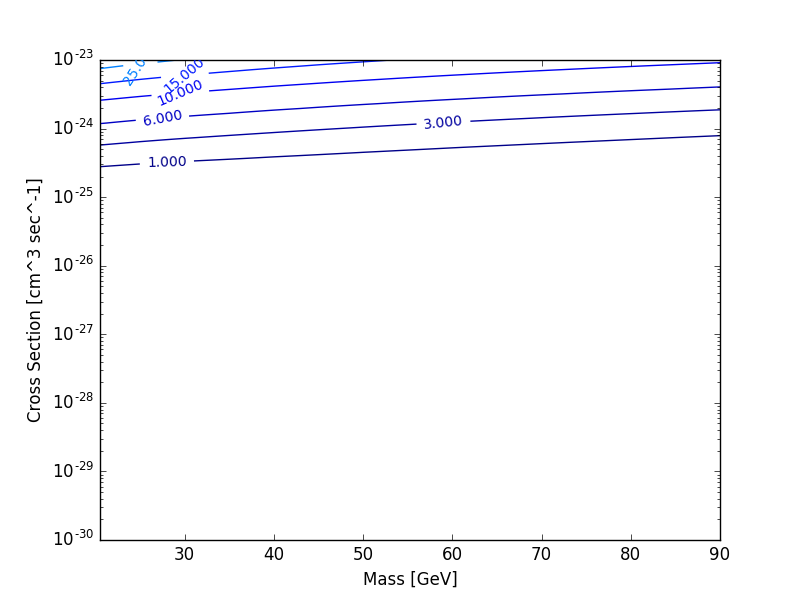
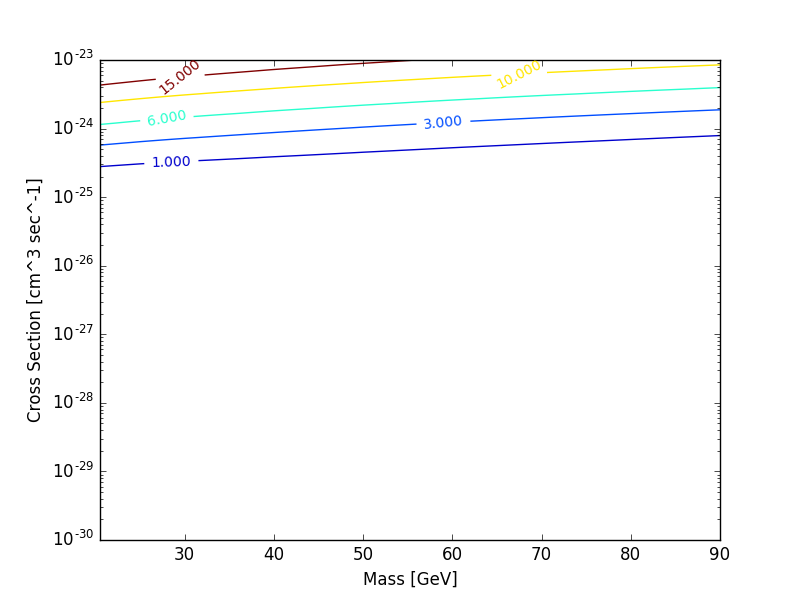
changed plot stuff

Changed region(s): [[0.125, 0.09, 0.9062, 0.3], [0.125, 0.27, 0.1562, 0.3]]

diff --git a/GCE_jla.py b/GCE_jla.py
@@ -1,6 +1,7 @@
 import numpy as np
 import scipy.optimize as scop
 import matplotlib.pyplot as plt
+import matplotlib.cm as cm
 from scipy import integrate
 
 import GCE_calcs
@@ -72,8 +73,8 @@ J_prior = np.tile(J_prior[np.newaxis,:,np.newaxis],(n_sigma,1,n_mass))
 GCE_like_3d = np.exp(log_like_GCE_3d)*J_prior
 
 max_index_GCE = np.unravel_index(GCE_like_3d.argmax(),GCE_like_3d.shape)
-plt.errorbar(10**bin_center,k[0,0,0,:]-background,yerr = np.sqrt(k[0,0,0,:]),label = 'Observed Residual')
-plt.plot(10**bin_center,mu[max_index_GCE[0],max_index_GCE[1],max_index_GCE[2],:]'+filen_name+',label = 'Expected Residual')
+plt.errorbar(10**bin_center, k[0,0,0,:]-background, yerr=np.sqrt(k[0,0,0,:]), color='c', label='Observed Residual')
+plt.plot(10**bin_center, mu[max_index_GCE[0],max_index_GCE[1],max_index_GCE[2],:], 'm', label='Expected Residual')
 plt.xscale('log')
 plt.yscale('log')
 plt.xlabel('Energy [GeV]')
@@ -84,12 +85,21 @@ plt.clf()
 
 GCE_like_2d = np.trapz(GCE_like_3d,x=J,axis=1)
 
-levels = [0,1,3,6,10,15,25,36,49,100]
-CS = plt.contour(mass_table,sigma,-np.log(GCE_like_2d) + np.log(GCE_like_2d.max()),levels)
-plt.clabel(CS, inline=1, fontsize=10)
+cmap = cm.cool
+levels = [0,1,3,6,10,15]
+manual_locations = [(41, 3e-26), (40, 1e-25), (39, 3e-25), (37, 1e-24), (34, 3e-24)]
+CS = plt.contour(mass_table,sigma,-np.log(GCE_like_2d) + np.log(GCE_like_2d.max()), levels, cmap=cm.get_cmap(cmap, len(levels) - 1))
+#plt.clabel(CS, inline=0, fontsize=10, fmt='%1.f', manual=manual_locations)
+plt.text(41, 3e-26, r'1$\sigma$', color='k', fontsize=10)
+plt.text(40, 1e-25, r'2$\sigma$', color='k', fontsize=10)
+plt.text(39, 3e-25, r'3$\sigma$', color='k', fontsize=10)
+plt.text(37, 1e-24, r'4$\sigma$', color='k', fontsize=10)
+plt.text(35, 3e-24, r'5$\sigma$', color='k', fontsize=10)
 plt.yscale('log')
 plt.xlabel('Mass [GeV]')
-plt.ylabel('Cross Section [cm^3 sec^-1]')
+plt.ylim(1e-28,1e-23)
+plt.ylabel(r'Cross Section [cm$^3$ sec$^{-1}$]')
+plt.title(r'GCE $-\Delta$Log-Likelihood Contours')
 plt.savefig('plots/WIMP/'+file_name+'_GCE_contours.png')
 plt.clf()
 
@@ -190,32 +200,31 @@ for i in range(len(like_name)):
     like_dwarf_2d *= like_ind_2d
 
 
-CS = plt.contour(mass_table,sigma,-np.log(like_dwarf_2d/like_dwarf_2d.max()),levels)
+CS = plt.contour(mass_table, sigma, -np.log(like_dwarf_2d/like_dwarf_2d.max()), levels, cmap=cm.get_cmap(cmap, len(levels) - 1))
 plt.clabel(CS, inline=1, fontsize=10)
 plt.yscale('log')
 plt.xlabel('Mass [GeV]')
-plt.ylabel('Cross Section [cm^3 sec^-1]')
+plt.ylabel(r'Cross Section [cm$^3$ sec$^{-1}$]')
+plt.ylim(1e-28,1e-23)
+plt.title(r'Combined Dwarf $-\Delta$Log-Likelihood Contours')
 plt.savefig('plots/WIMP/'+file_name+'_dwarf_contours.png')
 plt.clf()
 
 
 like_dwarf_1d = np.trapz(like_dwarf_2d, x=mass_table, axis=1)
 like_GCE_1d = np.trapz(GCE_like_2d, x=mass_table, axis=1)
-plt.plot(sigma, like_dwarf_1d/like_dwarf_1d.max(), label='Combined Dwarfs')
-plt.plot(sigma, like_GCE_1d/like_GCE_1d.max(), label='GCE')
+plt.plot(sigma, like_dwarf_1d/like_dwarf_1d.max(), 'c', label='Combined Dwarfs')
+plt.plot(sigma, like_GCE_1d/like_GCE_1d.max(), 'm', label='GCE')
 plt.xscale('log')
-plt.xlabel('Cross Section [cm^3 sec^-1]')
-plt.ylabel('Scaled Posterior')
+plt.xlabel(r'Cross Section [cm$^3$ sec$^{-1}$]')
+plt.ylabel('Scaled Probabilty')
 plt.ylim(0,1.1)
 plt.legend(loc='best')
+plt.title('Cross Section Posteriors')
 plt.savefig('plots/WIMP/'+file_name+'_cross_section_posteriors.png')
 plt.clf()
 
 evidence_dwarf = np.trapz(np.trapz(like_dwarf_2d, x=np.log(sigma), axis=0), x=mass_table, axis=0)/ (sigma_prior_norm * mass_prior_norm)
-
-print 'the GCE evidence is ' + str(evidence_GCE)
-print 'the dwarf evidence is ' +str(evidence_dwarf)
-print 'the product of the dwarf and GCE evidence is ' + str(evidence_dwarf*evidence_GCE) 
 
 ####################
 ####### C-C-C-COMBO
@@ -234,4 +243,8 @@ plt.clf()
 
 evidence_combo = np.trapz(np.trapz(combo_like_2d ,x = np.log(sigma),axis=0),x =mass_table,axis=0)/ (sigma_prior_norm * mass_prior_norm)
 
+
+print 'the GCE evidence is ' + str(evidence_GCE)
+print 'the dwarf evidence is ' +str(evidence_dwarf)
+print 'the product of the dwarf and GCE evidence is ' + str(evidence_dwarf*evidence_GCE)
 print 'the combined evidence is ' +str(evidence_combo)

diff --git a/J-factor_plot.py b/J-factor_plot.py
@@ -1,0 +1,70 @@
+import numpy as np
+import scipy.optimize as scop
+import matplotlib.pyplot as plt
+from scipy import integrate
+
+import GCE_calcs
+
+n_J=400
+J = np.logspace(19.,26.,num=n_J)
+
+
+J_prior = GCE_calcs.analysis.get_J_prior_MC(J)
+
+
+J_prior_2 = GCE_calcs.analysis.get_J_prior_MC_2(J)
+
+J_prior_3 = GCE_calcs.analysis.get_J_prior_MC_3(J)
+
+
+coeff = np.array([37.5153,-1.5093,1.63e-2,3.66e-4,-2.89237e-5,5.32e-7])
+h = .67
+Mmw = 1.5e12
+rvir = 200.
+argument = np.zeros(6)
+for i in range(6):
+	argument[i] = coeff[i]*pow(np.log(h*Mmw),i)
+conc = np.sum(argument)
+print conc
+print 200/conc
+
+plt.plot(J,J_prior/J_prior.max(),'c',label = 'Zhang et al 2012')
+plt.plot(J,J_prior_2/J_prior_2.max(),'y',label = 'Pato et al 2015')
+plt.plot(J,J_prior_3/J_prior_3.max(),'m',label = 'McKee et al 2015')
+plt.xscale('log')
+plt.ylim(0,1.1)
+plt.xlabel(r'J-factor [GeV$^2$ cm$^{-5}$]')
+plt.ylabel('Scaled Probability')
+plt.legend(loc='best')
+plt.title('J-factor Likelihoods')
+plt.savefig('J_factor_likelihoods.png')
+plt.clf()
+
+
+r = np.logspace(0,1.5,100)
+dens = GCE_calcs.analysis.density(r,30,1.1)
+dens_p = GCE_calcs.analysis.density(r,30+3,1.1)
+dens_m = GCE_calcs.analysis.density(r,30-3,1.1)
+dens_2 = GCE_calcs.analysis.density(r,8.25,1.1)
+dens_2_p = GCE_calcs.analysis.density(r,8.25+3,1.1)
+dens_2_m = GCE_calcs.analysis.density(r,8.25-3,1.1)
+print dens_p.shape
+print r.shape
+
+plt.plot(r, dens, 'c', label=r'R$_s$ = 30 kpc')
+plt.plot(r, dens_p, 'c')
+plt.plot(r, dens_m, 'c')
+plt.plot(r, dens_2, 'm', label=r'R$_s$ = 8.25 kpc')
+plt.plot(r, dens_2_p, 'm')
+plt.plot(r, dens_2_m, 'm')
+plt.fill_between(r, dens_m, dens_p, facecolor='c', alpha=0.25)
+plt.fill_between(r, dens_2_m, dens_2_p, facecolor='m', alpha=0.25)
+plt.xscale('log')
+plt.yscale('log')
+plt.xlabel('Radius [kpc]')
+plt.ylabel(r'$\rho / \rho_{local}$')
+plt.ylim(1e-1,1e2)
+plt.xlim(r[0],r[-1])
+plt.title('Density Profiles with Different Scale Radii')
+plt.savefig('density.png')
+

diff --git a/GCE_calcs/analysis.py b/GCE_calcs/analysis.py
@@ -8,15 +8,37 @@ from scipy import interpolate
 def poisson_log_like(k,mu):
     return k*np.log(mu) - mu - k*np.log(k) + k
 
+def density(r,scale_radius,  gamma): #NFW density profile
+    #r is the physical radius in kpc
+	solar_radius = 8.25
+	R = r/solar_radius#R / solar radius
+	return pow(R,-gamma)*pow((1 + R*solar_radius/scale_radius)/(1+solar_radius/scale_radius),gamma-3)
+
+
 def get_J_prior_MC(J_range):
     # J_range is a vector of J values where the KDE is to be evaluated
-    rho = np.random.normal(0.28,0.08,80000)
+    rho = np.random.normal(0.28,0.08,200000) #Zhang et al 1209.0256
     J = 2.e23*rho**2
     J_kde = stats.gaussian_kde(J)
     return J_kde(J_range)
 
+def get_J_prior_MC_2(J_range):
+    # J_range is a vector of J values where the KDE is to be evaluated
+    rho = np.random.normal(0.42,0.03,200000) #Pato et al values 1504.06324v2
+    J = 2.e23*rho**2
+    J_kde = stats.gaussian_kde(J)
+    return J_kde(J_range)
+
+def get_J_prior_MC_3(J_range):
+    # J_range is a vector of J values where the KDE is to be evaluated
+    rho = np.random.normal(0.49,0.13,200000) #McKee et al values 1509.05334v1
+    J = 2.e23*rho**2
+    J_kde = stats.gaussian_kde(J)
+    return J_kde(J_range)
+
+
 def get_J_prior_dwarf(J,mu,sigma):
-    exponent = np.random.normal(mu,sigma,80000)
+    exponent = np.random.normal(mu,sigma,200000)
     J_kde = stats.gaussian_kde(10**exponent)
     return J_kde(J)
 

diff --git a/old/j-factor.py b/old/j-factor.py
@@ -13,7 +13,7 @@ def density(x,y,scale_radius,  gamma): #NFW density profile
 	R = np.sqrt(1 -2.*y*x + x*x)#R / solar radius
 	return pow(R,-gamma)*pow((1 + R*solar_radius/scale_radius)/(1+solar_radius/scale_radius),gamma-3)
 
-ddef J_factor(scale_radius,local_density,gamma):
+def J_factor(scale_radius,local_density,gamma):
 	#integrating density^2 from x=0 to inf; x is line of sight distance/solarradius
 	#theta = np.zeros((7,7))
 	temp = np.zeros((7,7))
